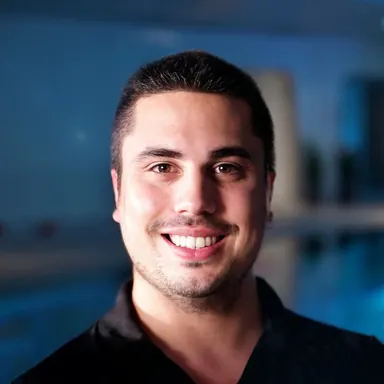
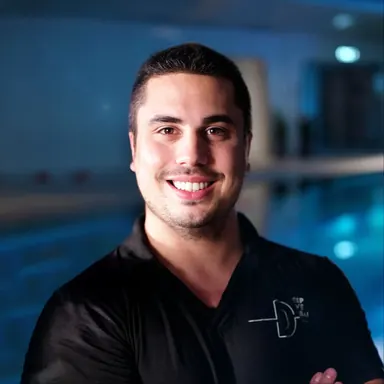
Update, wider portrait crops; Deep Dive Dubai in Nevcan's bio; Birgül's Instagram

diff --git a/_data/team.js b/_data/team.js
@@ -44,7 +44,7 @@ module.exports = {
         summary:
           "iOS ve Android uygulamalarından, yönetim panelinden ve web sitesinden sorumlu; genel teknoloji mimarisini kurup geliştiriyor, bulut altyapısını, veri güvenliğini ve kurumsal kimlik sistemini yönetiyor.",
         bio: [
-          "2008'de dalmaya başladı, 2011'den bu yana dalış eğitmeni. Türkiye'nin ilk GUE (Global Underwater Explorers) eğitmeni ve GUE Türkiye temsilcisi; bugün GUE'de eğitmen yetiştiren Instructor Trainer seviyesinde. Kapalı devre solunum cihazı (CCR), mağara ve karışım gazla derin dalışlar yapıyor.",
+          "2008'de dalmaya başladı, 2011'den bu yana dalış eğitmeni. Türkiye'nin ilk GUE (Global Underwater Explorers) eğitmeni ve GUE Türkiye temsilcisi; bugün GUE'de eğitmen yetiştiren Instructor Trainer seviyesinde. Kapalı devre solunum cihazı (CCR), mağara ve karışım gazla derin dalışlar yapıyor. Dünyanın en derin havuzu Deep Dive Dubai'de operasyon ve teknik ekiplerde çeşitli rollerde görev aldı.",
           "Sualtı projelerinde aktif: Ghost Diving Türkiye koordinatörü olarak hayalet ağ projeleri yürütüyor, Project Baseline'ın Ayvalık ve Marmara çalışmalarına destek veriyor, arkeolojik araştırmalara katılıyor ve mağara haritalama projeleri yapıyor. Sualtı arkeolojisi yüksek lisansını tamamlıyor.",
           "Doğuş Teknoloji ve SabancıDx gibi şirketlerde yazılım mimarı olarak çalıştı; bu deneyimini Dipnot'un teknoloji altyapısına taşıyor.",
         ],
@@ -82,6 +82,13 @@ module.exports = {
           "Lisansını arkeoloji bölümünde tamamladı, yüksek lisansında da aynı alanda derinleşiyor. İlgisinin odağında sualtı arkeolojisi var: denizin altında saklı kalan geçmişin izini sürmek, çalışmalarının merkezinde.",
           "TSSF/CMAS iki yıldızlı dalıcı olarak bu ilgiyi suyun altına da taşıyor. Arkeolojiyle dalışın buluştuğu Dipnot'ta hem arkeoloji yazıları kaleme alıyor hem de yazıların sosyal medyadaki sesi oluyor.",
         ],
+        links: [
+          {
+            icon: "brands:instagram",
+            label: "Birgül Eker, Instagram",
+            href: "https://www.instagram.com/birgul_eker/",
+          },
+        ],
       },
     ],
   },
@@ -117,7 +124,7 @@ module.exports = {
         summary:
           "Responsible for the iOS and Android apps, the admin panel and the website; designs and develops the overall technology architecture, and manages the cloud infrastructure, data security and the corporate identity system.",
         bio: [
-          "Started diving in 2008 and has been a dive instructor since 2011. Turkey's first GUE (Global Underwater Explorers) instructor and GUE's representative in Turkey, now at Instructor Trainer level, training GUE instructors. Dives closed-circuit rebreathers (CCR), caves and deep mixed-gas dives.",
+          "Started diving in 2008 and has been a dive instructor since 2011. Turkey's first GUE (Global Underwater Explorers) instructor and GUE's representative in Turkey, now at Instructor Trainer level, training GUE instructors. Dives closed-circuit rebreathers (CCR), caves and deep mixed-gas dives. Has held various roles in the operations and technical teams at Deep Dive Dubai, the world's deepest pool.",
           "Active in underwater projects: coordinates Ghost Diving Turkey's ghost-net projects, supports Project Baseline's work in Ayvalık and the Sea of Marmara, takes part in archaeological research and runs cave survey projects. Completing an MA in underwater archaeology.",
           "Has worked as a software architect at companies such as Doğuş Teknoloji and SabancıDx, and brings that experience to Dipnot's technology.",
         ],
@@ -154,6 +161,13 @@ module.exports = {
         bio: [
           "Took a degree in archaeology and is now going deeper into the field with a master's. Underwater archaeology is at the heart of the work: tracing the past the sea keeps hidden.",
           "As a TSSF/CMAS two-star diver, Birgül takes that interest below the surface too. At Dipnot, where archaeology meets diving, Birgül writes archaeology articles and is the voice of Dipnot's stories on social media.",
+        ],
+        links: [
+          {
+            icon: "brands:instagram",
+            label: "Birgül Eker on Instagram",
+            href: "https://www.instagram.com/birgul_eker/",
+          },
         ],
       },
     ],

diff --git a/scripts/build-images.js b/scripts/build-images.js
@@ -26,13 +26,13 @@ const JOBS = [
   {
     src: "team/nevcan.jpg",
     name: "team-nevcan",
-    extract: { left: 190, top: 20, width: 1200, height: 1200 },
+    extract: { left: 0, top: 0, width: 1600, height: 1600 },
     widths: [256, 384],
   },
   {
     src: "team/birgul.jpg",
     name: "team-birgul",
-    extract: { left: 410, top: 600, width: 1700, height: 1700 },
+    extract: { left: 68, top: 550, width: 2200, height: 2200 },
     widths: [256, 384],
   },
 ];
